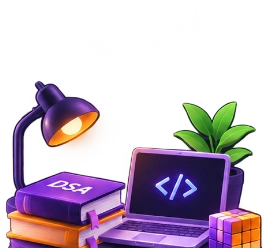
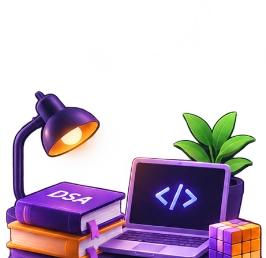
style(leetcode): align left card and desk scene to the top level of the component

diff --git a/src/components/topic-breakdown.tsx b/src/components/topic-breakdown.tsx
@@ -536,56 +536,14 @@ export function TopicBreakdown({ topics = [] }: TopicBreakdownProps) {
         .animate-dart-float { animation: dartFloat 3.6s ease-in-out infinite; }
       `}</style>
 
-      {/* Top Filter Pills Row (Aligned Right, matching image) */}
-      <div className="flex items-center justify-end gap-3 mb-3 px-1">
-        {/* Fundamental Pill */}
-        <button
-          onClick={() => handlePillClick("fundamental")}
-          className={`group flex items-center gap-2 px-3.5 py-1.5 rounded-full text-xs font-semibold tracking-wide transition-all duration-300 border ${
-            activeFilter === "fundamental"
-              ? "bg-[#0b1d30] border-cyan-400 text-cyan-300 shadow-[0_0_16px_rgba(34,211,238,0.45)] ring-1 ring-cyan-400"
-              : "bg-[#0c1424]/90 border-cyan-500/30 text-cyan-200/90 hover:border-cyan-400/60 hover:shadow-[0_0_12px_rgba(6,182,212,0.25)]"
-          }`}
-        >
-          <span className="w-2 h-2 rounded-full bg-cyan-400 shadow-[0_0_8px_#22d3ee] animate-pulse" />
-          <span>Fundamental</span>
-        </button>
-
-        {/* Intermediate Pill */}
-        <button
-          onClick={() => handlePillClick("intermediate")}
-          className={`group flex items-center gap-2 px-3.5 py-1.5 rounded-full text-xs font-semibold tracking-wide transition-all duration-300 border ${
-            activeFilter === "intermediate"
-              ? "bg-[#201035] border-purple-400 text-purple-200 shadow-[0_0_16px_rgba(192,132,252,0.45)] ring-1 ring-purple-400"
-              : "bg-[#180e29]/90 border-purple-500/30 text-purple-200/90 hover:border-purple-400/60 hover:shadow-[0_0_12px_rgba(168,85,247,0.25)]"
-          }`}
-        >
-          <span className="w-2 h-2 rounded-full bg-purple-400 shadow-[0_0_8px_#c084fc] animate-pulse" />
-          <span>Intermediate</span>
-        </button>
-
-        {/* Advanced Pill */}
-        <button
-          onClick={() => handlePillClick("advanced")}
-          className={`group flex items-center gap-2 px-3.5 py-1.5 rounded-full text-xs font-semibold tracking-wide transition-all duration-300 border ${
-            activeFilter === "advanced"
-              ? "bg-[#2c1908] border-amber-400 text-amber-200 shadow-[0_0_16px_rgba(251,191,36,0.45)] ring-1 ring-amber-400"
-              : "bg-[#211208]/90 border-amber-500/30 text-amber-200/90 hover:border-amber-400/60 hover:shadow-[0_0_12px_rgba(245,158,11,0.25)]"
-          }`}
-        >
-          <span className="w-2 h-2 rounded-full bg-amber-400 shadow-[0_0_8px_#fbbf24] animate-pulse" />
-          <span>Advanced</span>
-        </button>
-      </div>
-
-      {/* Main Grid Container (No artificial outer background, pure glassmorphic floating cards) */}
-      <div className="grid grid-cols-1 lg:grid-cols-[265px_1fr] gap-4 items-stretch">
+      {/* Main Grid Container: Left column starts at the very top, matching uploaded image */}
+      <div className="grid grid-cols-1 lg:grid-cols-[266px_1fr] gap-4 items-stretch">
         {/* ========================================================================= */}
-        {/* LEFT COLUMN: 3D Desk Scene on top + Summary Card underneath               */}
+        {/* LEFT COLUMN: 3D Desk Scene at the very top + Summary Card underneath       */}
         {/* ========================================================================= */}
-        <div className="flex flex-col items-center h-full">
-          {/* 3D Desk Scene Illustration (Floating naturally above card) */}
-          <div className="relative w-[265px] h-[200px] -mb-4 z-10 flex-shrink-0 pointer-events-none select-none">
+        <div className="flex flex-col items-center h-full pt-1">
+          {/* 3D Desk Scene Illustration (Reaching the very top of the layout) */}
+          <div className="relative w-[266px] h-[235px] -mb-6 z-10 flex-shrink-0 pointer-events-none select-none">
             <Image
               src="/dsa-desk-scene.webp"
               alt="DSA Desk Scene"
@@ -594,13 +552,13 @@ export function TopicBreakdown({ topics = [] }: TopicBreakdownProps) {
               className="object-contain filter drop-shadow-[0_10px_20px_rgba(168,85,247,0.3)]"
             />
             {/* Ambient lamp glow reflection on desk */}
-            <div className="absolute top-10 left-6 w-20 h-20 bg-amber-400/20 rounded-full blur-2xl pointer-events-none" />
+            <div className="absolute top-8 left-6 w-20 h-20 bg-amber-400/20 rounded-full blur-2xl pointer-events-none" />
             {/* Glowing </> Code bracket pulse on laptop screen */}
-            <div className="absolute top-[84px] left-[138px] w-8 h-8 rounded-full bg-cyan-400/25 blur-md animate-pulse pointer-events-none" />
+            <div className="absolute top-[135px] left-[175px] w-8 h-8 rounded-full bg-cyan-400/25 blur-md animate-pulse pointer-events-none" />
           </div>
 
-          {/* Left Glassmorphism Summary Card (flex-1 to match right column height perfectly) */}
-          <div className="relative w-full flex-1 flex flex-col justify-between rounded-2xl p-4 pt-6 bg-gradient-to-br from-[#1b143d]/85 via-[#130f2f]/85 to-[#0e0b24]/90 backdrop-blur-xl border border-purple-500/25 shadow-[0_8px_32px_0_rgba(112,66,248,0.22)] overflow-hidden before:absolute before:inset-x-0 before:top-0 before:h-[1px] before:bg-gradient-to-r before:from-transparent before:via-purple-400/40 before:to-transparent">
+          {/* Left Glassmorphism Summary Card (flex-1 to match right column bottom perfectly) */}
+          <div className="relative w-full flex-1 flex flex-col justify-between rounded-2xl p-4 pt-7 bg-gradient-to-br from-[#1b143d]/85 via-[#130f2f]/85 to-[#0e0b24]/90 backdrop-blur-xl border border-purple-500/25 shadow-[0_8px_32px_0_rgba(112,66,248,0.22)] overflow-hidden before:absolute before:inset-x-0 before:top-0 before:h-[1px] before:bg-gradient-to-r before:from-transparent before:via-purple-400/40 before:to-transparent">
             {/* Top Section: 3 Levels */}
             <div className="space-y-1">
               {/* Row 1: Fundamental */}
@@ -677,9 +635,50 @@ export function TopicBreakdown({ topics = [] }: TopicBreakdownProps) {
         </div>
 
         {/* ========================================================================= */}
-        {/* RIGHT COLUMN: Distribution Chart (Top) + Bottom 2 Cards                  */}
+        {/* RIGHT COLUMN: Pills on top (aligned right) + Distribution Chart + Cards  */}
         {/* ========================================================================= */}
-        <div className="flex flex-col gap-4 justify-between h-full">
+        <div className="flex flex-col gap-3 justify-between h-full">
+          {/* Top Filter Pills Row (Aligned Right directly above Card 2, matching image) */}
+          <div className="flex items-center justify-end gap-3 px-1">
+            {/* Fundamental Pill */}
+            <button
+              onClick={() => handlePillClick("fundamental")}
+              className={`group flex items-center gap-2 px-3.5 py-1.5 rounded-full text-xs font-semibold tracking-wide transition-all duration-300 border ${
+                activeFilter === "fundamental"
+                  ? "bg-[#0b1d30] border-cyan-400 text-cyan-300 shadow-[0_0_16px_rgba(34,211,238,0.45)] ring-1 ring-cyan-400"
+                  : "bg-[#0c1424]/90 border-cyan-500/30 text-cyan-200/90 hover:border-cyan-400/60 hover:shadow-[0_0_12px_rgba(6,182,212,0.25)]"
+              }`}
+            >
+              <span className="w-2 h-2 rounded-full bg-cyan-400 shadow-[0_0_8px_#22d3ee] animate-pulse" />
+              <span>Fundamental</span>
+            </button>
+
+            {/* Intermediate Pill */}
+            <button
+              onClick={() => handlePillClick("intermediate")}
+              className={`group flex items-center gap-2 px-3.5 py-1.5 rounded-full text-xs font-semibold tracking-wide transition-all duration-300 border ${
+                activeFilter === "intermediate"
+                  ? "bg-[#201035] border-purple-400 text-purple-200 shadow-[0_0_16px_rgba(192,132,252,0.45)] ring-1 ring-purple-400"
+                  : "bg-[#180e29]/90 border-purple-500/30 text-purple-200/90 hover:border-purple-400/60 hover:shadow-[0_0_12px_rgba(168,85,247,0.25)]"
+              }`}
+            >
+              <span className="w-2 h-2 rounded-full bg-purple-400 shadow-[0_0_8px_#c084fc] animate-pulse" />
+              <span>Intermediate</span>
+            </button>
+
+            {/* Advanced Pill */}
+            <button
+              onClick={() => handlePillClick("advanced")}
+              className={`group flex items-center gap-2 px-3.5 py-1.5 rounded-full text-xs font-semibold tracking-wide transition-all duration-300 border ${
+                activeFilter === "advanced"
+                  ? "bg-[#2c1908] border-amber-400 text-amber-200 shadow-[0_0_16px_rgba(251,191,36,0.45)] ring-1 ring-amber-400"
+                  : "bg-[#211208]/90 border-amber-500/30 text-amber-200/90 hover:border-amber-400/60 hover:shadow-[0_0_12px_rgba(245,158,11,0.25)]"
+              }`}
+            >
+              <span className="w-2 h-2 rounded-full bg-amber-400 shadow-[0_0_8px_#fbbf24] animate-pulse" />
+              <span>Advanced</span>
+            </button>
+          </div>
           {/* Card 2: Topic-wise Problem Distribution */}
           <div className="relative rounded-2xl p-4 bg-gradient-to-br from-[#1b143d]/85 via-[#130f2f]/85 to-[#0e0b24]/90 backdrop-blur-xl border border-purple-500/25 shadow-[0_8px_32px_0_rgba(112,66,248,0.22)] overflow-hidden before:absolute before:inset-x-0 before:top-0 before:h-[1px] before:bg-gradient-to-r before:from-transparent before:via-purple-400/40 before:to-transparent">
             {/* Header: Trending Graph Icon + Title */}
